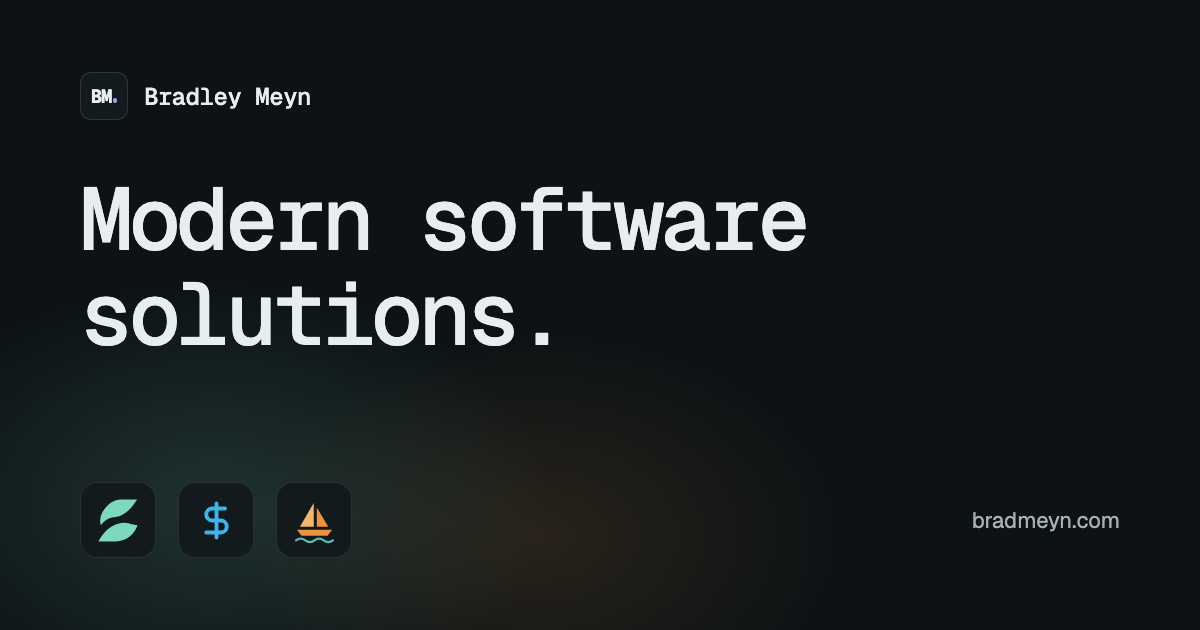
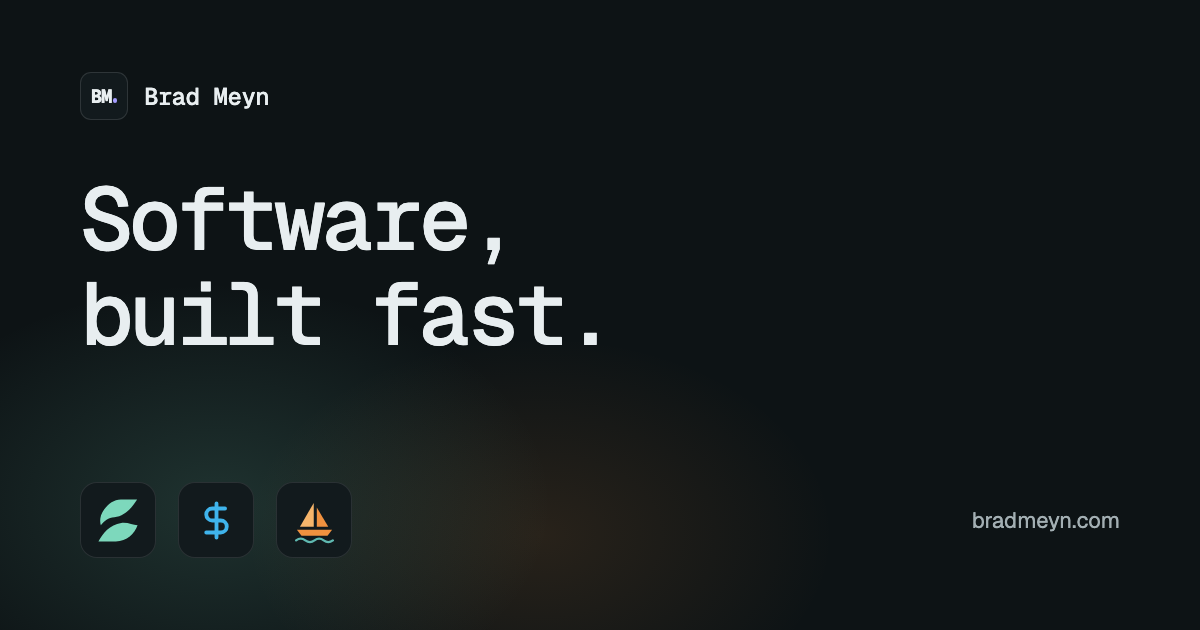
feat: typed hero headline and cleaner backdrop
- Headline "Software, built ..." types through fast, right, to scale
  and to last, with a blinking violet cursor; screen readers and
  reduced motion get a single stable sentence
- Intro: "I build web apps, internal tools and fast websites"
- Remove the violet haze and top beam; phones get a static CSS grid
  in place of the WebGL circuit
- Nav shows "Brad Meyn"; share image updated to match

diff --git a/src/styles/global.css b/src/styles/global.css
@@ -102,67 +102,39 @@
   @apply text-muted transition-colors duration-200 hover:text-fg;
 }
 
-/* Hero backdrop -------------------------------------------------------------
-   A faint grid that fades out from the top, lit by two slow-drifting glows. The
-   glows are the only ambient motion on the site and stop for reduced motion. */
-
-.hero-grid {
-  background-image:
-    linear-gradient(to right, rgb(255 255 255 / 0.05) 1px, transparent 1px),
-    linear-gradient(to bottom, rgb(255 255 255 / 0.05) 1px, transparent 1px);
-  background-size: 64px 64px;
-  background-position: center top;
-  mask-image: radial-gradient(ellipse 75% 70% at 50% 0%, black 10%, transparent 75%);
-}
-
-.hero-glow {
-  position: absolute;
-  border-radius: 9999px;
-  filter: blur(60px);
-  will-change: transform;
-}
-
-.hero-glow-a {
-  top: -24rem;
-  left: 50%;
-  width: 72rem;
-  height: 44rem;
-  margin-left: -26rem;
-  background: radial-gradient(closest-side, rgb(165 156 255 / 0.6), rgb(165 156 255 / 0.18) 55%, transparent);
-}
-
-.hero-glow-b {
-  top: 4rem;
-  right: -10rem;
-  width: 44rem;
-  height: 34rem;
-  background: radial-gradient(closest-side, rgb(122 108 255 / 0.4), transparent);
-}
-
-.hero-beam {
-  background: linear-gradient(90deg, transparent, rgb(165 156 255 / 0.7) 50%, transparent);
-  opacity: 0.6;
+/* Typed headline cursor: a violet block, like a terminal. */
+.typed-cursor {
+  display: inline-block;
+  width: 0.55em;
+  height: 0.85em;
+  margin-left: 0.08em;
+  vertical-align: -0.06em;
+  background: var(--color-accent);
 }
 
 @media (prefers-reduced-motion: no-preference) {
-  .hero-glow-a {
-    animation: hero-drift-a 18s ease-in-out infinite alternate;
-  }
-  .hero-glow-b {
-    animation: hero-drift-b 24s ease-in-out infinite alternate;
+  .typed-cursor {
+    animation: cursor-blink 1.1s steps(1, end) infinite;
   }
 }
 
-@keyframes hero-drift-a {
-  to {
-    transform: translate3d(-12rem, 4rem, 0) scale(1.1);
+@keyframes cursor-blink {
+  50% {
+    opacity: 0;
   }
 }
 
-@keyframes hero-drift-b {
-  to {
-    transform: translate3d(-10rem, 6rem, 0) scale(0.9);
-  }
+/* Hero backdrop (phones) -----------------------------------------------------
+   Phones skip the WebGL circuit, so they get a still grid that fades out from
+   the top right instead. */
+
+.hero-grid {
+  background-image:
+    linear-gradient(to right, rgb(165 156 255 / 0.1) 1px, transparent 1px),
+    linear-gradient(to bottom, rgb(165 156 255 / 0.1) 1px, transparent 1px);
+  background-size: 40px 40px;
+  background-position: right top;
+  mask-image: radial-gradient(ellipse 90% 55% at 100% 0%, black 15%, transparent 75%);
 }
 
 /* Article body ---------------------------------------------------------- */
